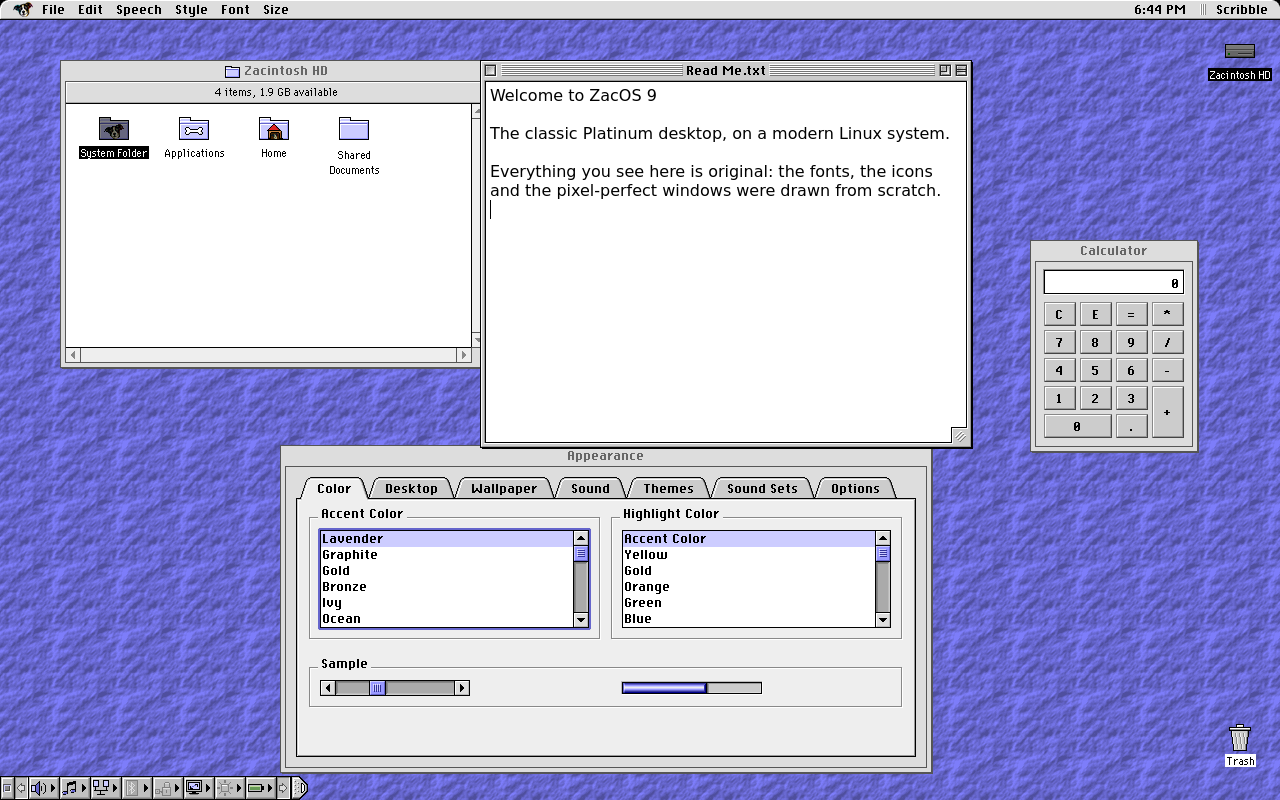
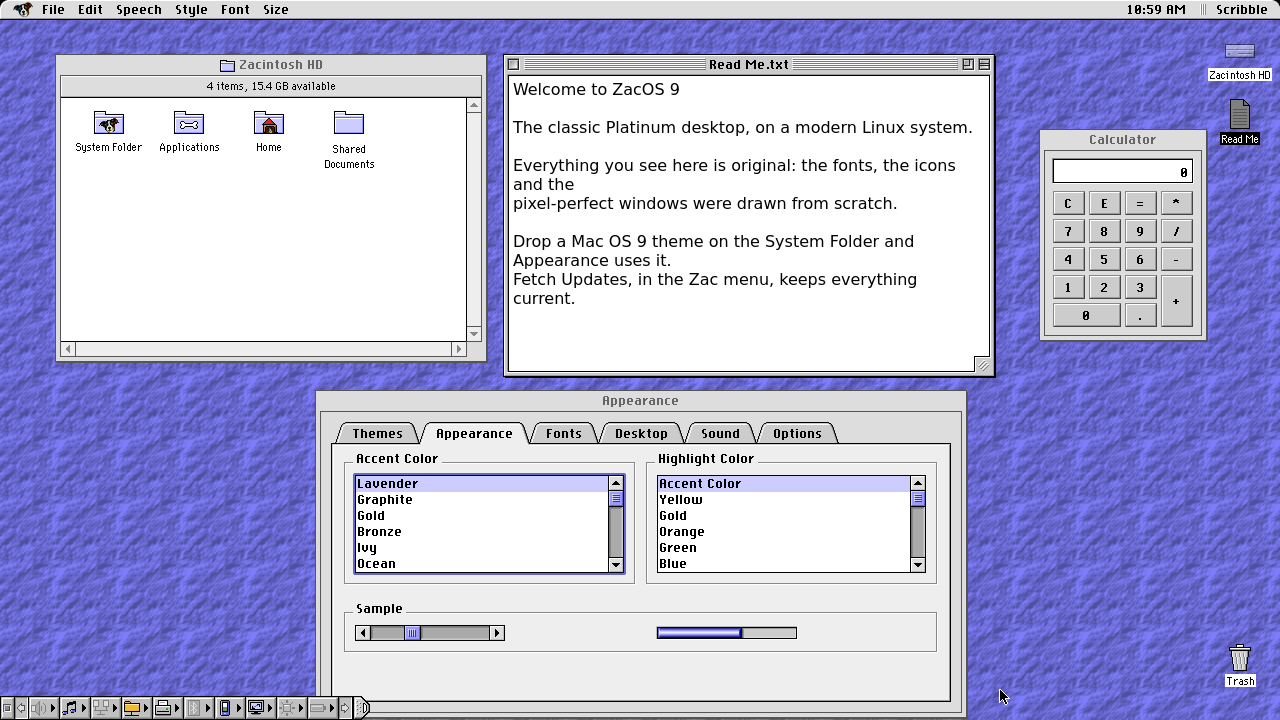
Screenshots: the 1.7.5 desktop, menu, panels and Software
The five README screenshots were from 1.1.0: the Appearance
panel still had 1.1.0's seven tabs and no theme gallery,
About This Computer said 1.1.0, and the desktop still wore
the lavender accent.

These are from this tree's 1.7.5 build, run headless in a
private home and D-Bus session so nothing on the machine
that built them shows: the stock blue desktop, the Zac menu
with Fetch Updates, all 30 control panels, the Software
window with its categories and extras, and About This
Computer saying 1.7.5.

The README pairs Software with About again, and the captions
and alt text describe what is actually on screen.

diff --git a/README.md b/README.md
@@ -18,7 +18,7 @@
 </p>
 
 <p align="center">
-  <img src="docs/screenshots/desktop.png" alt="The ZacOS 9 desktop: the Zacintosh HD window, a Scribble document, the Calculator and the Appearance control panel over a lavender desktop pattern">
+  <img src="docs/screenshots/desktop.png" alt="The ZacOS 9 desktop: the Zacintosh HD window, a Read Me document in Scribble, the Calculator and the Appearance control panel over a blue desktop pattern">
 </p>
 
 ## Why ZacOS 9?
@@ -51,7 +51,7 @@ so everything looks and behaves the same way, down to the scroll arrows.
 <table>
   <tr>
     <td width="50%"><img src="docs/screenshots/zac-menu.png" alt="The Zac menu open, listing control panels, recent items and desk accessories"></td>
-    <td width="50%"><img src="docs/screenshots/control-panels.png" alt="The System Folder, the Control Panels folder with its 30 panels, General Controls and Date &amp; Time"></td>
+    <td width="50%"><img src="docs/screenshots/control-panels.png" alt="The System Folder and the Control Panels folder, with its 30 control panels: Appearance, Bluetooth, Date &amp; Time, Monitors, Mouse, Sound, Users and the rest"></td>
   </tr>
   <tr>
     <td><b>The Zac menu</b>: desk accessories (Calculator, Notepad, Stash, Dog Ears,
@@ -86,15 +86,20 @@ so everything looks and behaves the same way, down to the scroll arrows.
   account, Puppy Mode for a simpler Sniffer, a keychain, a screen saver, a
   password-protected screen lock and screen sharing between ZacOS 9 computers.
 
-<p align="center">
-  <img src="docs/screenshots/software.png" alt="The Software window, listing Firefox, GIMP, LibreOffice and VLC"><br>
-  <i>The Software window: Debian's archive and Flathub, plus ZacOS Extras such as Steam,
-  Game Player, Hue Lights and Turntable.</i>
-</p>
-
-Thousands of programs are a click away, and they wear the Platinum look too.
-**Software Update** (Zac menu ▸ Fetch Updates) installs new ZacOS releases,
-Debian's security fixes and ZacOS Extras together.
+<table>
+  <tr>
+    <td width="55%"><img src="docs/screenshots/software.png" alt="The Software window: a search field, Include Flathub, categories from Featured to Extras, and Firefox, GIMP, LibreOffice and VLC"></td>
+    <td width="45%"><img src="docs/screenshots/about.png" alt="About This Computer: ZacOS 9, Version 1.7.5, with the processor, graphics and memory"></td>
+  </tr>
+  <tr>
+    <td><b>Thousands of programs</b>, from Debian's archive and Flathub, plus the
+      ZacOS Extras: Steam, Game Player, Hue Lights, Turntable and Phone. They
+      wear the Platinum look too.</td>
+    <td><b>About This Computer</b> says which version you run, and Software
+      Update (Zac menu ▸ Fetch Updates) installs new ZacOS releases, Debian's
+      security fixes and the extras together.</td>
+  </tr>
+</table>
 
 <p align="center">
   <img src="assets/boot/happy-zac.png" alt="Happy Zac: a smiling dog on a beige computer's screen" width="140"><br>
